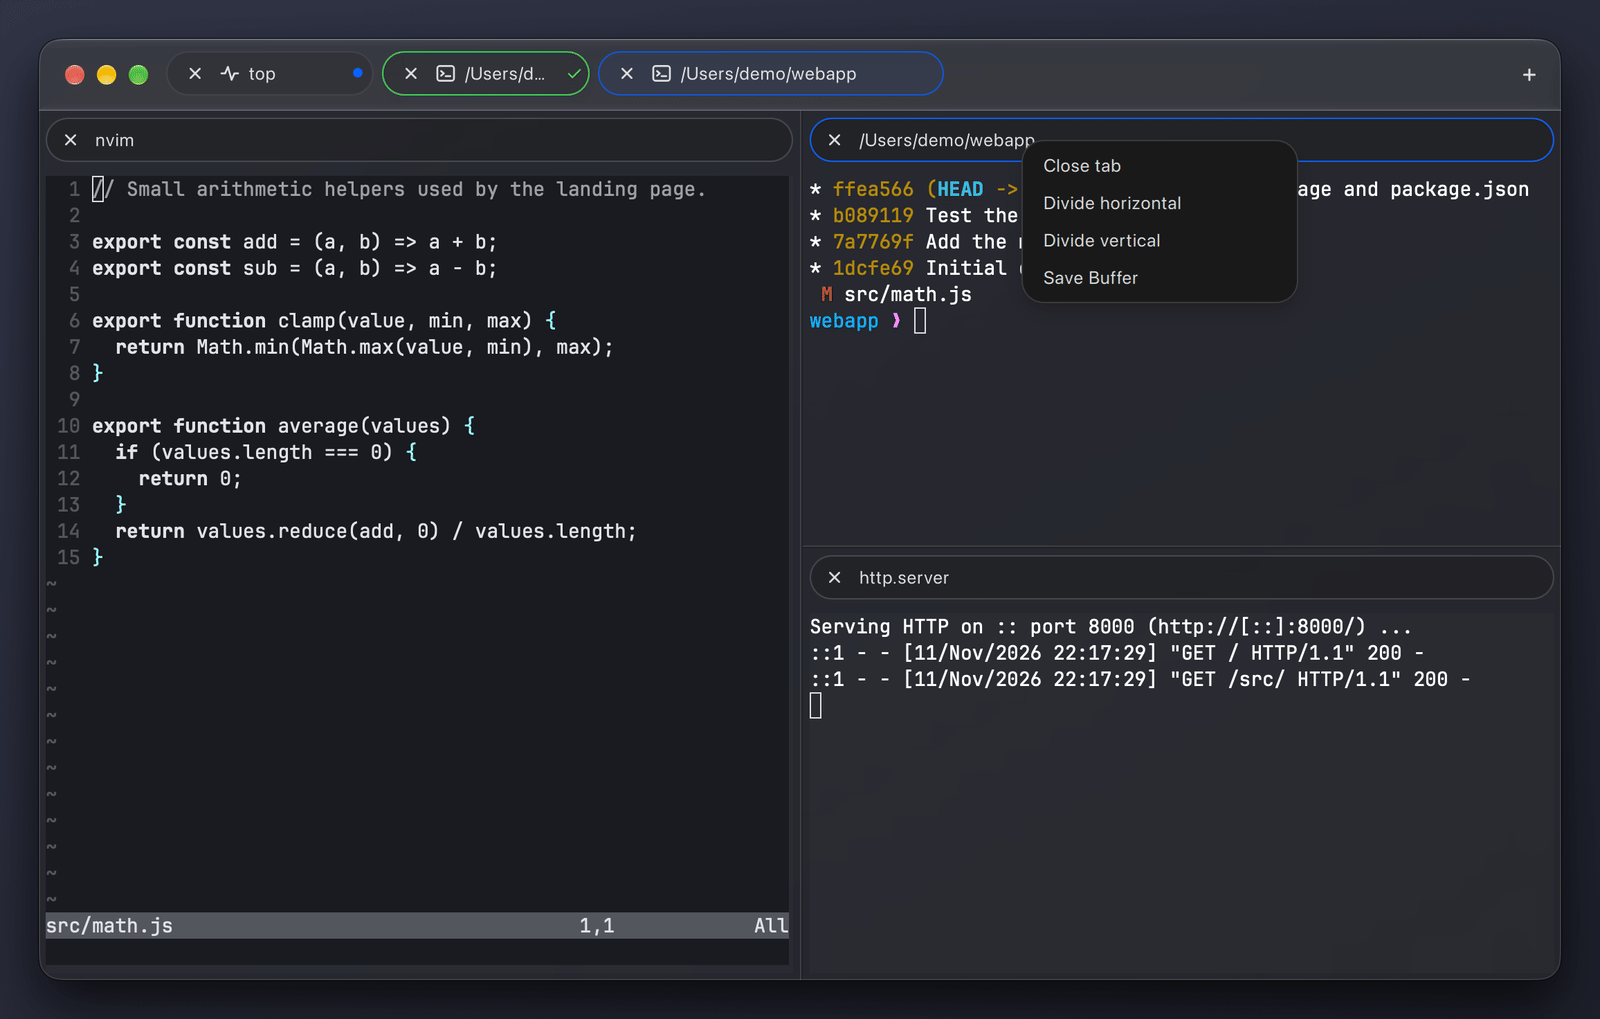
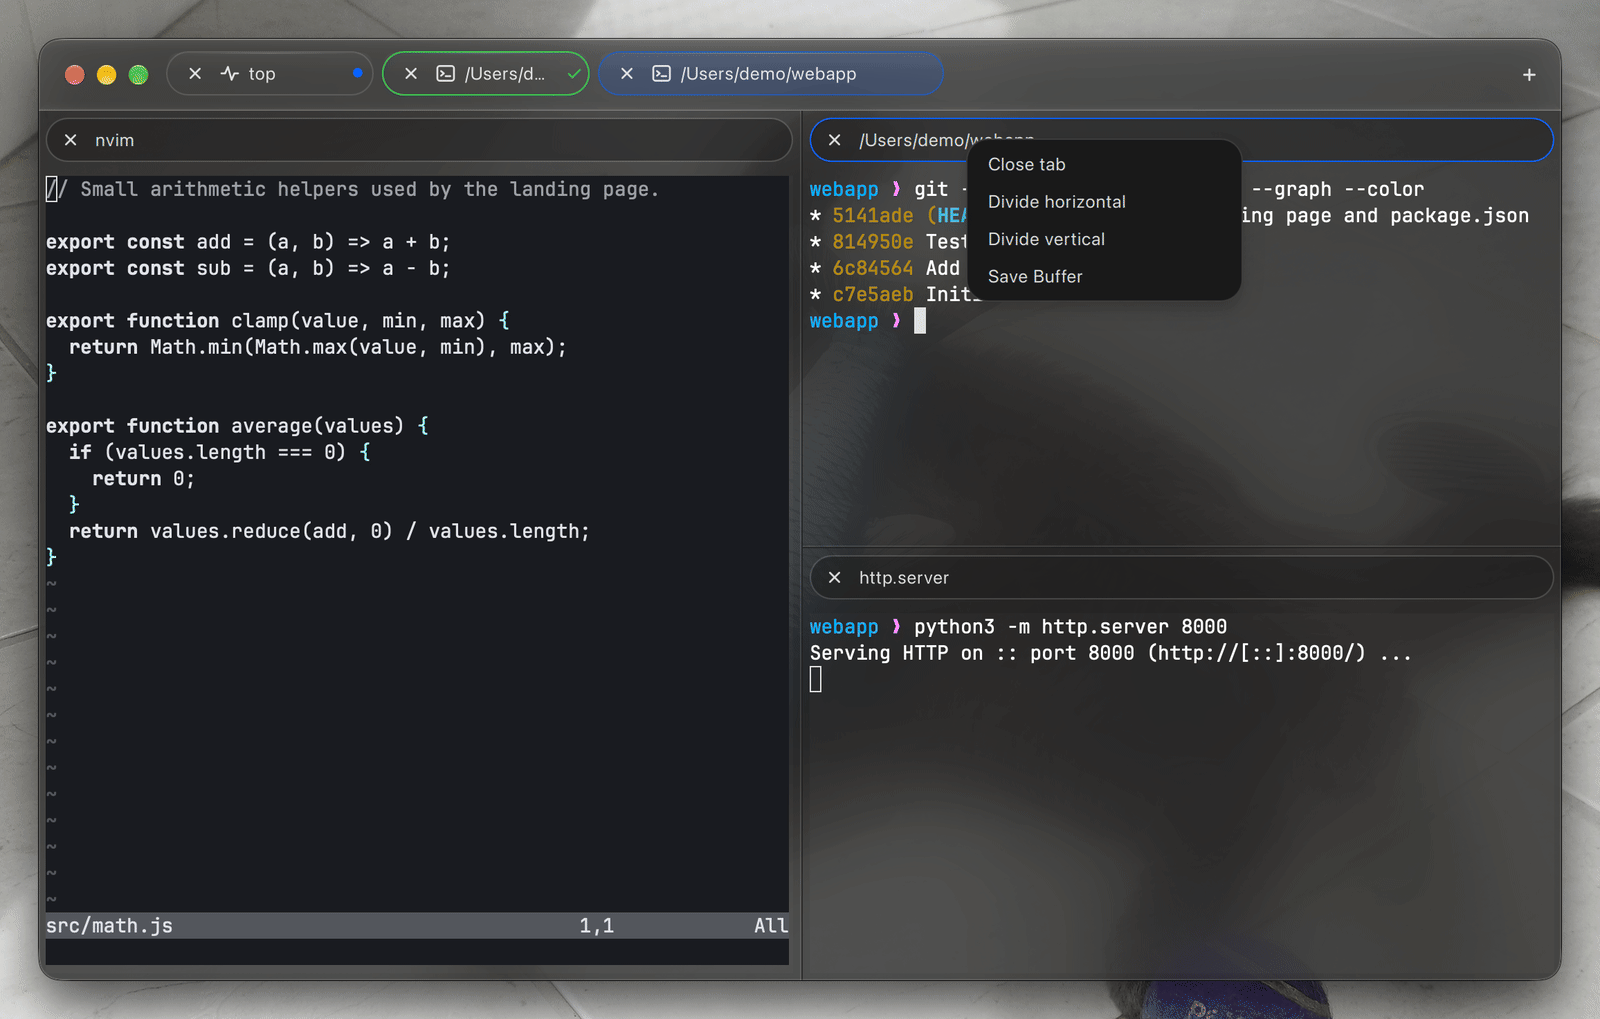
Retake the README images over the desktop wallpaper
Every screenshot and GIF is retaken with the new tab icons and glass, the
five Settings sections and the user's window opacity and blur, over the
desktop picture so the see-through window shows. docshot.sh gains
`wallpaper` (the wallpaper window alone: no other windows, no desktop
icons) and `backdrop on IMAGE|wallpaper`, and the copy now uses the real
opacity and blur instead of an opaque window. SCREENSHOTS.md records the
positions and steps that work, and how to seed saved commands and
functions for the Background Commands shots.

diff --git a/tools/screenshots/backdrop.swift b/tools/screenshots/backdrop.swift
@@ -1,9 +1,11 @@
-// A full-screen, click-through dark gradient for the built-in display.
+// A full-screen, click-through background for the built-in display: a dark
+// gradient, or an image (the desktop wallpaper, from `docshot.sh wallpaper`).
 //
 // Konsoll's window is see-through, so screenshots show whatever is behind it.
-// Run this behind the app so every shot gets the same neutral background.
+// Run this behind the app so every shot gets the same background and no
+// other window shows through.
 //
-// Usage: backdrop        (runs until killed)
+// Usage: backdrop [IMAGE]        (runs until killed)
 import Cocoa
 
 final class GradientView: NSView {
@@ -21,7 +23,15 @@ app.setActivationPolicy(.accessory)
 // global coordinates screencapture -R and CGWindowList use.
 let window = NSWindow(contentRect: NSScreen.screens[0].frame, styleMask: .borderless,
                       backing: .buffered, defer: false)
-window.contentView = GradientView()
+let arguments = CommandLine.arguments
+if arguments.count > 1, let image = NSImage(contentsOfFile: arguments[1]) {
+    let view = NSImageView()
+    view.image = image
+    view.imageScaling = .scaleAxesIndependently
+    window.contentView = view
+} else {
+    window.contentView = GradientView()
+}
 window.level = .normal
 window.isOpaque = true
 window.ignoresMouseEvents = true

diff --git a/tools/screenshots/ctl.swift b/tools/screenshots/ctl.swift
@@ -49,6 +49,19 @@ case "windows":
         ]
         print(fields.map { "\($0)" }.joined(separator: " "))
     }
+case "wallpaper":
+    // The window number of the wallpaper on the built-in display (0,0), for
+    // screencapture -l: the picture alone, without windows or desktop icons.
+    let list = CGWindowListCopyWindowInfo([.optionAll], kCGNullWindowID) as? [[String: Any]] ?? []
+    let wallpaper = list.first { info in
+        let bounds = info[kCGWindowBounds as String] as? [String: Double] ?? [:]
+        return (info[kCGWindowName as String] as? String) == "Wallpaper" && bounds["X"] == 0 && bounds["Y"] == 0
+    }
+    guard let number = wallpaper?[kCGWindowNumber as String] else {
+        FileHandle.standardError.write("no wallpaper window\n".data(using: .utf8)!)
+        exit(1)
+    }
+    print(number)
 case "click":
     let at = point(2)
     let count = args.count > 4 ? Int64(number(4)) : 1

diff --git a/docs/SCREENSHOTS.md b/docs/SCREENSHOTS.md
@@ -24,7 +24,8 @@ converts the images. Run it without arguments for the full command list.
 | --- | --- |
 | `setup [BUILD_DIR]` | Builds the copy (default build dir `build/Qt_6_12_0_for_macOS_Debug`), the Swift helpers, a neutral zsh config and a demo git project |
 | `launch` / `stop` | Starts the copy (window at 290,120, 1100×680 pt) / quits it with the backdrop and the HUD |
-| `backdrop on\|off` | A neutral, click-through gradient behind the app |
+| `wallpaper` | Captures the desktop wallpaper of the built-in display alone (no windows, no desktop icons) to `$KONSOLL_DOCS_DIR/wallpaper.png` |
+| `backdrop on [IMAGE\|wallpaper]` / `backdrop off` | A click-through full-screen background behind the app: the neutral gradient, an image, or the captured wallpaper |
 | `hud show X Y` / `hud say TEXT` / `hud off` | A caption pill for GIFs (the key being pressed, a step) |
 | `windows` / `place WINDOW X Y W H` / `front` | The app's windows (`ID X Y W H LAYER TITLE`), move or resize one (index or title), bring the app forward |
 | `click X Y [COUNT]`, `rclick X Y`, `move X Y`, `drag X1 Y1 X2 Y2 [HOLD_MS]` | Mouse input |
@@ -42,8 +43,9 @@ read them off `windows` and a `shot`. Files go to `$KONSOLL_DOCS_DIR`
 ```sh
 D=tools/screenshots/docshot.sh
 $D setup                       # once, or after changing the app
+$D wallpaper                   # the desktop picture, without your windows
 $D launch
-$D backdrop on
+$D backdrop on wallpaper       # the blur and transparency show it
 
 # The tab context menu
 $D type --enter 'git --no-pager log --oneline --graph --color'
@@ -81,10 +83,15 @@ $D stop
   project, a prompt showing only the directory name, git author `Demo`, and
   an `OSC 7` report of `/Users/demo/…`, which is what pane and tab titles
   show. Still avoid output such as `ls -l` that prints your user name.
-- **The see-through window.** Without the backdrop, whatever is behind the
-  window (your wallpaper, other apps) shows through. `shot` captures a screen
-  rectangle, so menus and popups are included — the tab context menu is a
-  separate popup window that a single-window capture would miss.
+- **The see-through window.** The copy uses your opacity and blur
+  (`General.windowAlpha`, `General.blurEnabled`), so the shots show the
+  window as you use it. Whatever is behind it shows through, so keep the
+  backdrop on: `backdrop on wallpaper` puts the desktop picture behind the
+  app (captured by `wallpaper` from the wallpaper window alone, so none of
+  your windows or desktop icons appear) and `backdrop on` a neutral
+  gradient. `shot` captures a screen rectangle, so menus and popups are
+  included — the tab context menu is a separate popup window that a
+  single-window capture would miss.
 - **Dead keys.** `type` sends `"`, `'`, `~`, `^` and `` ` `` followed by a
   space, so ABNT and US International layouts type them literally. `~` may
   still come out wrong; prefer `$HOME` or relative paths.
@@ -104,16 +111,37 @@ $D stop
 - Keep GIFs to 10–18 s and under ~2 MB; check every shot for personal data
   (paths, user names, notifications, the menu-bar clock) before committing.
 
+### Background Commands data
+
+The Saved Commands and Functions shots need saved entries. Write them to the
+copy's own domain while it is stopped (they are JSON in a data value):
+
+```sh
+python3 - <<'PY'
+import json, subprocess
+dom = "com.com-github-rask-project-docs.Konsoll"
+saved = [{"name": "Static server", "command": "python3 -m http.server 8002", "directory": ""},
+         {"name": "Build and test", "command": "npm run build\nnpm test", "directory": ""}]
+funcs = [{"name": "mkcd", "description": "Create a folder and enter it", "body": "mkdir -p \"$1\" && cd \"$1\""}]
+for key, value in (("BackgroundCommands.saved", saved), ("ShellFunctions.functions", funcs)):
+    subprocess.run(["defaults", "write", dom, key, "-data",
+                    json.dumps(value, separators=(",", ":")).encode().hex()], check=True)
+PY
+```
+
+The copy then writes `mkcd` into the shared shell-integration folder (see
+above): relaunch your Konsoll afterwards so it writes your functions back.
+
 ## Shot list
 
 | File | What it shows | How |
 | --- | --- | --- |
-| `overview.png` | Three tabs (`top` with new output, a finished command ✓, the active one) and the active tab split into `nvim`, a shell with `git log` and a `python3 -m http.server` pane | ⌘T twice, ⌘D, ⇧⌘D, a program in each pane |
-| `option-word-editing.gif` | On `git commit -m "update the release notes for version 3"`: ⌥← ×4, ⌥⌦, ⌥⌫, type `changelog`, ⌥→ ×3, ⌃C, then `cd ` + ⌥. | Run `mkdir -p notes/v3` first so ⌥. has an argument; a key HUD names each key |
+| `overview.png` | Three tabs (`top` with new output, a finished command ✓, the active one with the static running icon of `http.server`) and the active tab split into `nvim`, a shell with `git log` and a `python3 -m http.server` pane | ⌘T twice, ⌘D, ⇧⌘D, a program in each pane |
+| `option-word-editing.gif` | In a window 314 pt tall (`place 1 290 120 1100 314`, HUD at 840 412), on `git commit -m "update the release notes for version 3"`: ⌥← ×4, ⌥⌦, ⌥⌫, type `changelog`, ⌥→ ×3, ⌃C, then `cd ` + ⌥. | Run `mkdir -p notes/v3` first, then ⌃L (not `clear`, which would become the last argument) so ⌥. inserts `notes/v3`; a key HUD names each key |
 | `tabs.png` | The overview layout with the tab context menu open | Right-click the active tab |
 | `split-panes.png` | The overview layout with a pane title-bar menu open | Right-click a pane's title bar |
 | `drag-pane.gif` | The `http.server` pane dragged by its title bar onto the `nvim` pane, then onto the tab strip | Captions in the HUD |
-| `tab-to-window.gif` | The split tab pressed, held and dragged out into a new window, then dropped back on the first window's tab strip | Make the window ~780×480 pt so the new window fits beside it |
+| `tab-to-window.gif` | The split tab pressed, held and dragged out into a new window, then dropped back on the first window's tab strip | Make the window ~780×480 pt so the new window fits beside it; drop the tab around 950,300 so the new window stays on screen; GIF 1000 px |
 | `search.png` | ⌘F searching `zip` in `ls -l /usr/bin` output, a few matches in | ↩ to move between matches |
 | `command-block.png` | A command and its output outlined after a click on one of the output lines | `git status`, `wc -l src/*.js tests/*.js`, `git log --oneline`; click the `wc` output |
 | `save-buffer.png` | Four selected lines of `git log` and the pane context menu | Drag to select, right-click the selection |
@@ -122,8 +150,8 @@ $D stop
 | `background-saved-commands.png` | Two saved commands and the *New Command* form with a two-line command | Add Command… |
 | `background-functions.png` | `mkcd` listed and `serve` being written | Add Function… |
 | `background-sessions.png` | Every pane of the window with Show / Move to Background | — |
-| `move-to-background.gif` | The `http.server` tab, right-click ▸ *Move to background*, the job under Running with new output, *Open in Tab* | Main window and Background Commands side by side; two takes joined |
-| `settings.png` | The four Settings sections in a 2×2 grid | One shot per section, stacked with ffmpeg `hstack` / `vstack` |
+| `move-to-background.gif` | The `http.server` tab, right-click ▸ *Move to background*, the job under Running with new output, *Open in Tab* | Main window at 50,170 (760×470) and Background Commands at 830,170 (800×560), recorded together (`record NAME 17 20 130 1640 640`, GIF 1000 px). Select the moved job right away so `curl` requests show in its output; with four jobs listed, *Open in Tab* sits lower (y≈480) |
+| `settings.png` | The five Settings sections: two rows of two, then Security centered | One shot per section; Security as a `shot-rect` twice as wide (backdrop on both sides), stacked with ffmpeg `hstack` / `vstack` |
 
 Before committing, check the shots for anything personal: user and host
 names in prompts, paths under your home folder, history, notifications from
